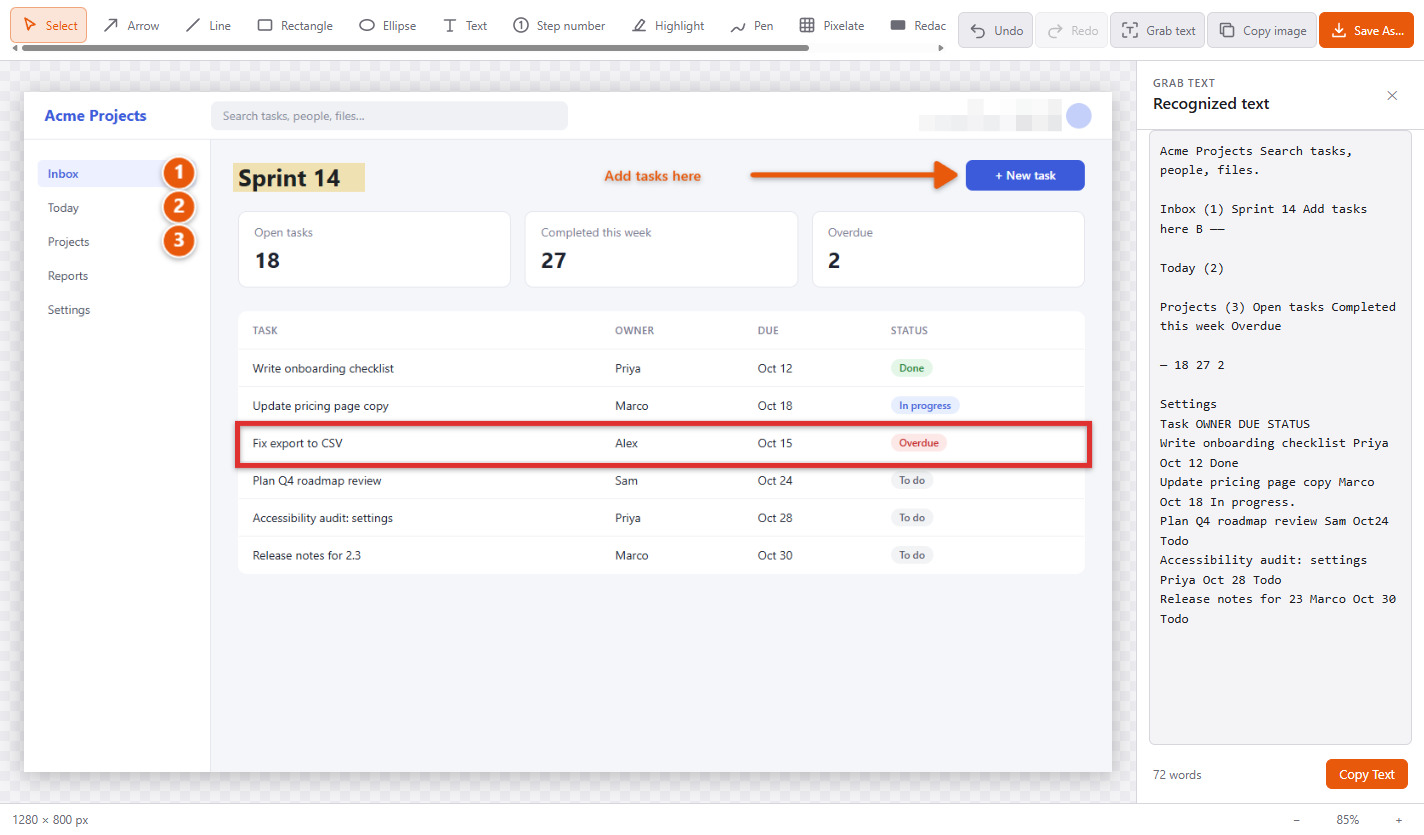
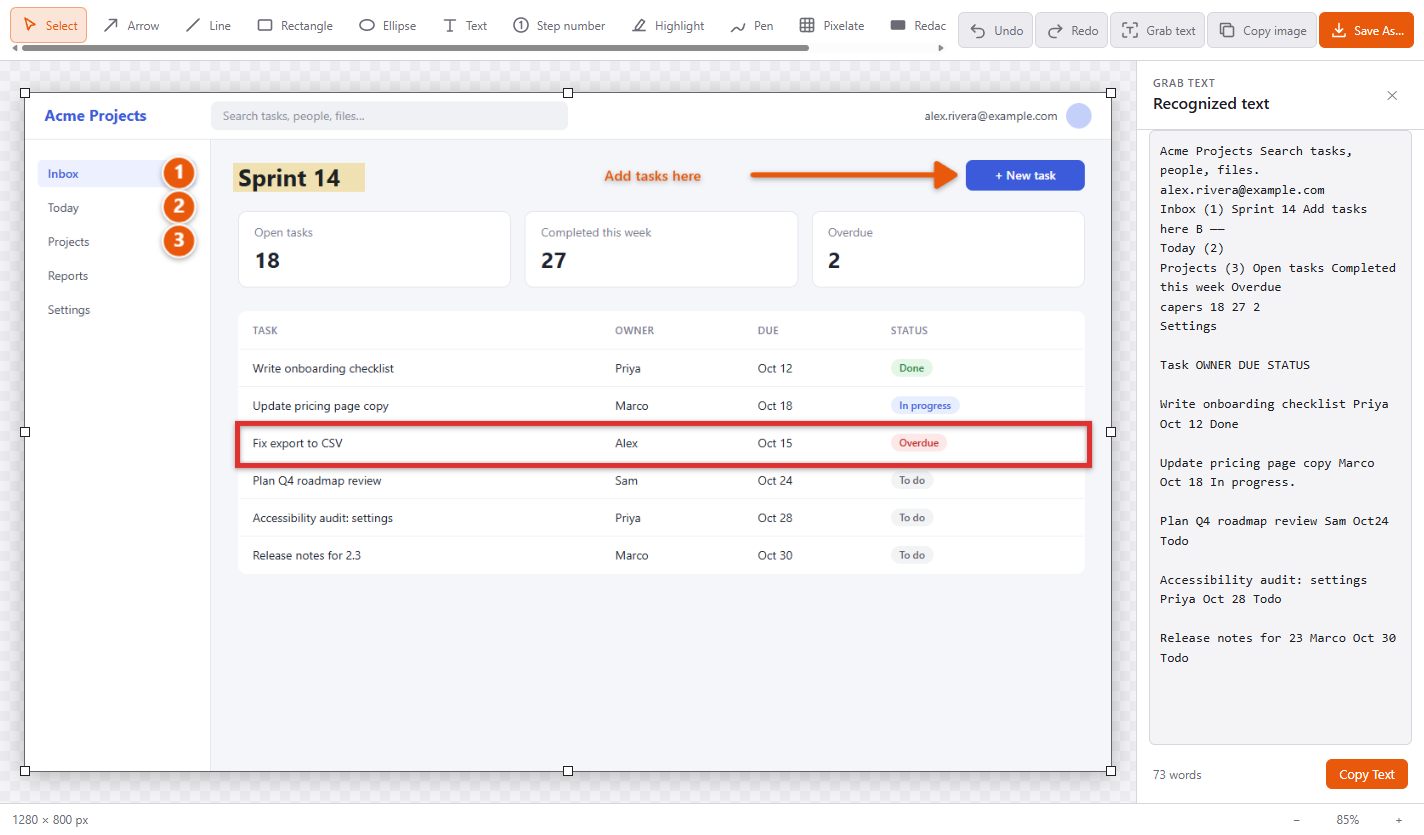
Add canvas resize handles

diff --git a/src/renderer/editor/main.ts b/src/renderer/editor/main.ts
@@ -62,6 +62,7 @@ function selectTool(name: ToolName): void {
   activeTool = name
   tools.setTool(name)
   for (const [n, b] of toolButtons) b.setAttribute('aria-pressed', String(n === name))
+  $('canvas-bounds').hidden = name !== 'select'
   showProperties()
   updateProperties()
 }
@@ -244,6 +245,58 @@ function updateProperties(): void {
 
 /** True until the user picks a zoom level; then window resizes stop refitting. */
 let autoFit = true
+
+type CanvasHandle = 'n' | 'ne' | 'e' | 'se' | 's' | 'sw' | 'w' | 'nw'
+
+for (const handle of document.querySelectorAll<HTMLButtonElement>('.canvas-handle')) {
+  handle.addEventListener('pointerdown', (event) => {
+    event.preventDefault()
+    event.stopPropagation()
+    autoFit = false
+    doc.canvas.discardActiveObject()
+    doc.canvas.requestRenderAll()
+    updateProperties()
+
+    const direction = handle.dataset.handle as CanvasHandle
+    const startX = event.clientX
+    const startY = event.clientY
+    const startWidth = doc.width
+    const startHeight = doc.height
+    let appliedShiftX = 0
+    let appliedShiftY = 0
+    handle.setPointerCapture(event.pointerId)
+
+    const move = (moveEvent: PointerEvent) => {
+      let dx = Math.round((moveEvent.clientX - startX) / doc.zoom)
+      let dy = Math.round((moveEvent.clientY - startY) / doc.zoom)
+      if (direction.includes('w')) dx = Math.min(dx, startWidth - 32)
+      if (direction.includes('e')) dx = Math.max(dx, 32 - startWidth)
+      if (direction.includes('n')) dy = Math.min(dy, startHeight - 32)
+      if (direction.includes('s')) dy = Math.max(dy, 32 - startHeight)
+
+      const left = direction.includes('w') ? dx : 0
+      const top = direction.includes('n') ? dy : 0
+      const width = startWidth + (direction.includes('e') ? dx : 0) - left
+      const height = startHeight + (direction.includes('s') ? dy : 0) - top
+      const shiftX = -left
+      const shiftY = -top
+      doc.resizeCanvas(width, height, shiftX - appliedShiftX, shiftY - appliedShiftY)
+      appliedShiftX = shiftX
+      appliedShiftY = shiftY
+    }
+
+    const finish = () => {
+      handle.removeEventListener('pointermove', move)
+      handle.removeEventListener('pointerup', finish)
+      handle.removeEventListener('pointercancel', finish)
+      tools.onCommit()
+      updateProperties()
+    }
+    handle.addEventListener('pointermove', move)
+    handle.addEventListener('pointerup', finish)
+    handle.addEventListener('pointercancel', finish)
+  })
+}
 
 function fit(): void {
   autoFit = true

diff --git a/src/renderer/editor.html b/src/renderer/editor.html
@@ -24,7 +24,19 @@
     </div>
 
     <main id="stage">
-      <div id="canvas-wrap"><canvas id="canvas"></canvas></div>
+      <div id="canvas-wrap">
+        <canvas id="canvas"></canvas>
+        <div id="canvas-bounds" aria-label="Canvas resize handles">
+          <button class="canvas-handle nw" data-handle="nw" aria-label="Resize canvas from top left"></button>
+          <button class="canvas-handle n" data-handle="n" aria-label="Resize canvas from top"></button>
+          <button class="canvas-handle ne" data-handle="ne" aria-label="Resize canvas from top right"></button>
+          <button class="canvas-handle e" data-handle="e" aria-label="Resize canvas from right"></button>
+          <button class="canvas-handle se" data-handle="se" aria-label="Resize canvas from bottom right"></button>
+          <button class="canvas-handle s" data-handle="s" aria-label="Resize canvas from bottom"></button>
+          <button class="canvas-handle sw" data-handle="sw" aria-label="Resize canvas from bottom left"></button>
+          <button class="canvas-handle w" data-handle="w" aria-label="Resize canvas from left"></button>
+        </div>
+      </div>
     </main>
 
     <aside id="side-panel" aria-label="Editor sidebar">

diff --git a/src/renderer/editor/editor.css b/src/renderer/editor/editor.css
@@ -140,9 +140,43 @@ body {
 }
 
 #canvas-wrap {
+  position: relative;
   box-shadow: 0 4px 24px rgb(0 0 0 / 0.25);
   line-height: 0;
 }
+
+#canvas-bounds {
+  position: absolute;
+  inset: 0;
+  border: 1px solid color-mix(in srgb, var(--text) 68%, transparent);
+  pointer-events: none;
+}
+
+#canvas-bounds[hidden] {
+  display: none;
+}
+
+.canvas-handle {
+  position: absolute;
+  width: 10px;
+  height: 10px;
+  min-width: 0;
+  padding: 0;
+  border: 1px solid #202124;
+  border-radius: 0;
+  background: #ffffff;
+  pointer-events: auto;
+  transform: translate(-50%, -50%);
+}
+
+.canvas-handle.nw { left: 0; top: 0; cursor: nwse-resize; }
+.canvas-handle.n { left: 50%; top: 0; cursor: ns-resize; }
+.canvas-handle.ne { left: 100%; top: 0; cursor: nesw-resize; }
+.canvas-handle.e { left: 100%; top: 50%; cursor: ew-resize; }
+.canvas-handle.se { left: 100%; top: 100%; cursor: nwse-resize; }
+.canvas-handle.s { left: 50%; top: 100%; cursor: ns-resize; }
+.canvas-handle.sw { left: 0; top: 100%; cursor: nesw-resize; }
+.canvas-handle.w { left: 0; top: 50%; cursor: ew-resize; }
 
 #side-panel {
   grid-area: sidebar;

diff --git a/src/renderer/editor/doc.ts b/src/renderer/editor/doc.ts
@@ -243,6 +243,19 @@ export class EditorDoc {
     this.applyZoom(this.zoom)
   }
 
+  /** Resize the document bounds, shifting its contents when the top or left edge moves. */
+  resizeCanvas(width: number, height: number, shiftX: number, shiftY: number): void {
+    this.width = Math.max(32, Math.round(width))
+    this.height = Math.max(32, Math.round(height))
+    if (shiftX || shiftY) {
+      for (const o of this.canvas.getObjects()) {
+        o.set({ left: o.left + shiftX, top: o.top + shiftY })
+        o.setCoords()
+      }
+    }
+    this.applyZoom(this.zoom)
+  }
+
   applyZoom(zoom: number): void {
     this.zoom = Math.min(8, Math.max(0.05, zoom))
     this.canvas.setDimensions({

diff --git a/docs/editor-roadmap.md b/docs/editor-roadmap.md
@@ -24,6 +24,8 @@ Implemented on the `enhancements` branch: labeled tools at comfortable window wi
 
 Selection editing now uses high-contrast circular resize and rotation handles, reports the selected bounds, and provides Duplicate, Delete, To Front and To Back actions. Ctrl+A selects every annotation, Ctrl+D duplicates the selection, arrow keys move it by one pixel, and Shift+arrow moves it by ten pixels. These operations participate in undo/redo.
 
+The Select tool also shows eight handles around the captured canvas. Dragging an edge or corner trims that side or adds transparent canvas space; resizing from the top or left keeps the capture and annotations aligned. Canvas resizing is undoable and is preserved in exported images and editable documents.
+
 Validation for this milestone passed on October 19, 2026: TypeScript checking, all seven unit tests, the production build, the native Electron editor smoke test, and screenshot generation. The smoke test covered drawing, undo/redo, exact crop dimensions, editable document saving, and burned-in redactions. Updated editor, OCR and selection screenshots are stored in `docs/screenshots/`.
 
 Deliver one complete editing workflow: **open a screenshot, choose a tool, draw an annotation, adjust its appearance, undo a change, then copy or save the result**.
